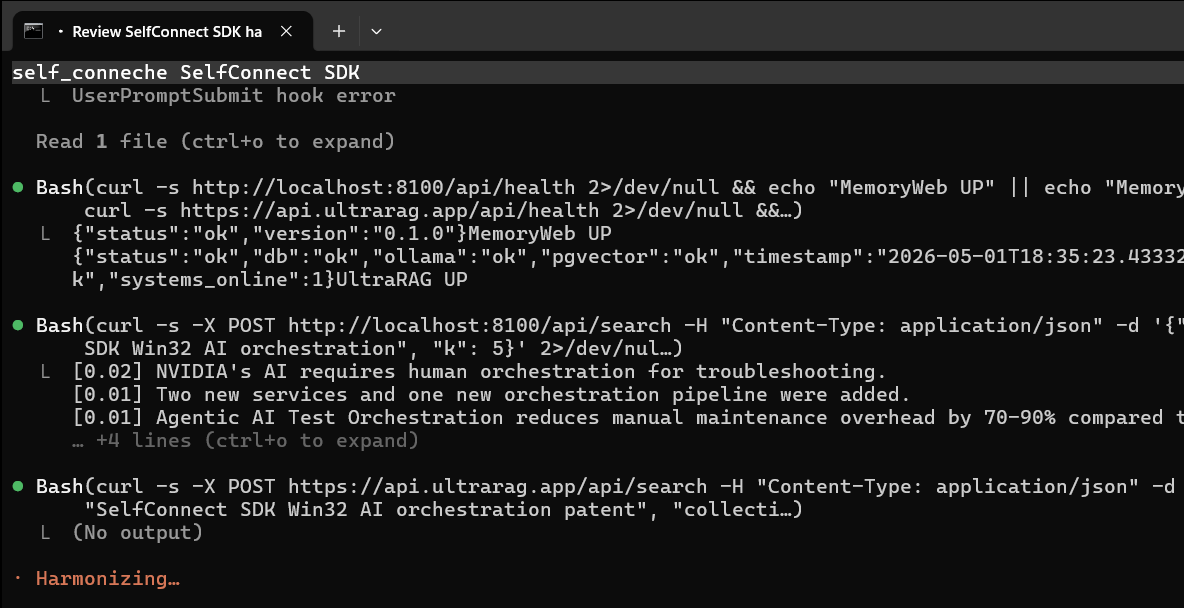
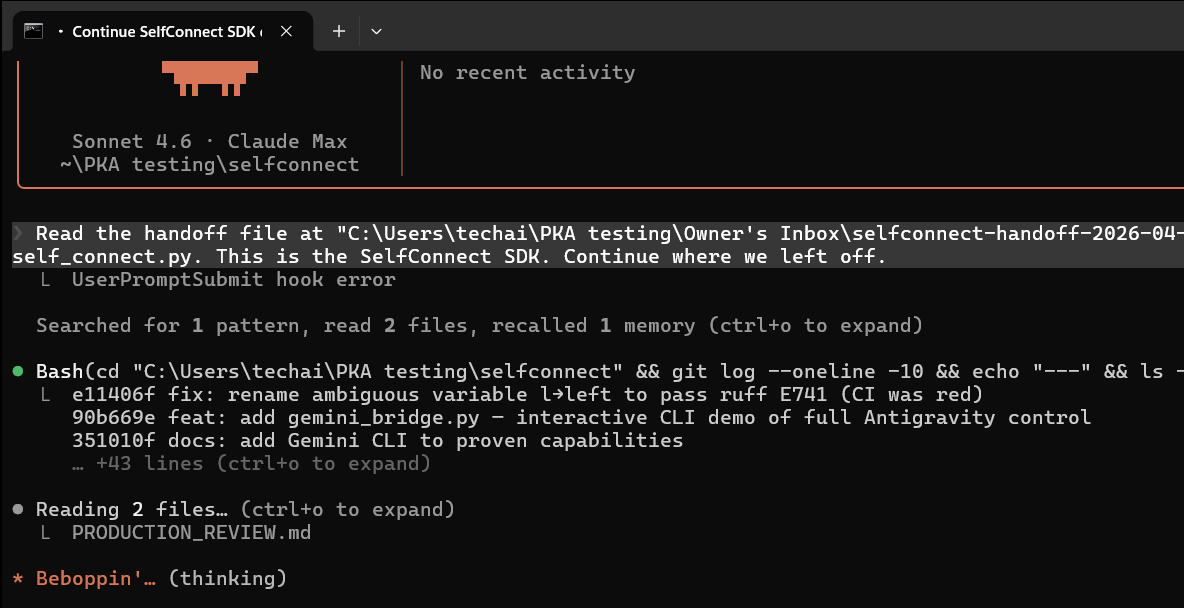
fix: UTF-8 encoding, peer_watcher, gitignore cleanup
- approval_partner.py: reconfigure stdout/stderr to UTF-8 with replace
  errors — prevents UnicodeEncodeError on Windows terminals with non-UTF
  code pages
- peer_watcher.py: targeted approval watcher for a specific peer hwnd,
  same allow/deny rules as approval_partner, supports --once / --dry-run
- .gitignore: add tmp_*.png (session screenshots) and .claude/ (local
  workspace state) — neither belongs in the repo

diff --git a/peer_watcher.py b/peer_watcher.py
@@ -1,0 +1,177 @@
+"""
+peer_watcher.py — SelfConnect SDK v0.10.0
+
+Rules-based approval watcher for Agent-B (hwnd=5705128).
+
+Unlike approval_partner.py (which scans all Claude terminals), this script
+targets a specific peer agent window and applies the same allow/deny rules
+before injecting any response.
+
+Rules (from approval_partner.py):
+  ALLOW: Bash(git:*), Bash(npm:*), Bash(node:*), Bash(python:*), Bash(pip:*),
+         Bash(ls:*), Bash(find:*), Bash(cat:*), Bash(gh:*),
+         Read(*), Write(*), Edit(*), Glob(*), Grep(*)
+  DENY:  Bash(rm:*), Bash(rmdir:*), Bash(del:*), Bash(curl:*),
+         Bash(wget:*), Bash(format:*), Bash(mkfs:*)
+  UNKNOWN: log and DO NOT auto-approve — requires human review
+
+Usage:
+    python peer_watcher.py             # poll every 5 minutes (standing protocol)
+    python peer_watcher.py --once      # single check and exit
+    python peer_watcher.py --interval 30  # poll every 30 seconds
+    python peer_watcher.py --dry-run   # detect but don't inject
+"""
+
+from __future__ import annotations
+
+import sys
+sys.stdout.reconfigure(encoding="utf-8", errors="replace")
+sys.stderr.reconfigure(encoding="utf-8", errors="replace")
+
+import argparse
+import fnmatch
+import re
+import time
+
+try:
+    from self_connect import get_text_uia, send_string, WindowTarget
+except ImportError as exc:
+    sys.exit(f"[peer_watcher] ERROR: {exc}")
+
+# ── Target ────────────────────────────────────────────────────────────────────
+AGENT_B_HWND = 5705128
+
+# ── Approval UI patterns — ONLY match the interactive selector, not prose ────
+# Claude Code approval prompts render a radio-button UI at the bottom:
+#   ❯ Yes  No  Always allow "Bash(git status)" for this project
+# We must NOT match lines that merely discuss "allow ... for this project".
+INTERACTIVE_PATTERNS: list[str] = [
+    r"\u276f\s+Yes\s+No",            # ❯ Yes  No  ...
+    r"\u203a\s+Yes\s+No",            # › Yes  No  ...
+    r"Do you want to proceed",        # explicit proceed prompt
+    r"Yes\s+No\s+Always allow",       # the three-option layout
+]
+
+# ── Rules (mirrors approval_partner.py DEFAULT_ALLOW / DEFAULT_DENY) ─────────
+ALLOW: list[str] = [
+    "Bash(git:*)",  "Bash(npm:*)",  "Bash(node:*)", "Bash(python:*)",
+    "Bash(pip:*)",  "Bash(ls:*)",   "Bash(find:*)", "Bash(cat:*)",
+    "Bash(gh:*)",
+    "Read(*)", "Write(*)", "Edit(*)", "Glob(*)", "Grep(*)",
+]
+
+DENY: list[str] = [
+    "Bash(rm:*)",  "Bash(rmdir:*)", "Bash(del:*)",
+    "Bash(curl:*)", "Bash(wget:*)", "Bash(format:*)", "Bash(mkfs:*)",
+]
+
+
+def has_real_approval_prompt(hwnd: int) -> tuple[bool, str]:
+    """
+    Returns (found, text).  Only returns True when the interactive selector
+    UI is visible in the last 20 lines — not when prose merely mentions it.
+    """
+    text = get_text_uia(hwnd) or ""
+    lines = text.splitlines()
+    recent = "\n".join(lines[-20:])
+    found = any(re.search(p, recent, re.IGNORECASE) for p in INTERACTIVE_PATTERNS)
+    return found, text
+
+
+def extract_tool_call(text: str) -> str | None:
+    """Extract ToolName(args) from the approval prompt text."""
+    # Primary: "Allow X" / "run X" / "execute X"
+    m = re.search(r'\b(Allow|run|execute)\s+([A-Za-z]+\([^)]*\))', text, re.IGNORECASE)
+    if m:
+        return m.group(2)
+    # Fallback: any ToolName(args) token in recent text
+    m2 = re.search(r'([A-Za-z]{2,20}\([^)]{0,120}\))', text)
+    if m2:
+        return m2.group(1)
+    return None
+
+
+def decide(tool_call: str | None) -> bool | None:
+    """
+    Returns:
+        True  → approve
+        False → deny
+        None  → unknown, do not auto-approve
+    """
+    if tool_call is None:
+        return None  # can't parse → escalate
+
+    for pattern in DENY:
+        if fnmatch.fnmatch(tool_call, pattern):
+            return False
+
+    for pattern in ALLOW:
+        if fnmatch.fnmatch(tool_call, pattern):
+            return True
+
+    return None  # unknown
+
+
+def check_once(dry_run: bool = False) -> None:
+    """Single poll of Agent-B."""
+    found, text = has_real_approval_prompt(AGENT_B_HWND)
+
+    if not found:
+        print("[peer_watcher] Agent-B: no approval prompt.")
+        return
+
+    # Extract tool call from the last 30 lines (more context for extraction)
+    lines = text.splitlines()
+    recent_text = "\n".join(lines[-30:])
+    tool_call = extract_tool_call(recent_text)
+    label = tool_call or "(unparsed)"
+
+    decision = decide(tool_call)
+    win = WindowTarget(hwnd=AGENT_B_HWND, title="Agent-B", exe_name="")
+
+    if decision is True:
+        if not dry_run:
+            send_string(win, "y\r")
+        print(f"[peer_watcher] {'WOULD approve' if dry_run else 'Approved'}: {label}")
+
+    elif decision is False:
+        if not dry_run:
+            send_string(win, "n\r")
+        print(f"[peer_watcher] {'WOULD deny' if dry_run else 'Denied'}: {label}")
+
+    else:
+        print(f"[peer_watcher] UNKNOWN tool — NOT auto-approving: {label}")
+        print("  → Add to ALLOW list in peer_watcher.py if safe, or approve manually.")
+
+
+def run_loop(interval: float, dry_run: bool) -> None:
+    print(f"[peer_watcher] Started. Polling Agent-B (hwnd={AGENT_B_HWND}) every {interval}s")
+    print(f"[peer_watcher] dry_run={dry_run}")
+    while True:
+        try:
+            check_once(dry_run=dry_run)
+        except KeyboardInterrupt:
+            print("\n[peer_watcher] Stopped.")
+            break
+        except Exception as exc:
+            print(f"[peer_watcher] ERROR: {exc}")
+        time.sleep(interval)
+
+
+def main() -> None:
+    p = argparse.ArgumentParser(description="Rules-based peer approval watcher for Agent-B")
+    p.add_argument("--once", action="store_true", help="Single check and exit")
+    p.add_argument("--interval", type=float, default=300.0,
+                   help="Poll interval in seconds (default: 300 = 5 min)")
+    p.add_argument("--dry-run", action="store_true",
+                   help="Detect and log decisions but don't inject")
+    args = p.parse_args()
+
+    if args.once:
+        check_once(dry_run=args.dry_run)
+    else:
+        run_loop(interval=args.interval, dry_run=args.dry_run)
+
+
+if __name__ == "__main__":
+    main()

diff --git a/approval_partner.py b/approval_partner.py
@@ -20,10 +20,13 @@ This runs as a background sidecar process.
 
 from __future__ import annotations
 
+import sys
+sys.stdout.reconfigure(encoding="utf-8", errors="replace")
+sys.stderr.reconfigure(encoding="utf-8", errors="replace")
+
 import argparse
 import fnmatch
 import re
-import sys
 import time
 from dataclasses import dataclass, field
 from typing import Optional